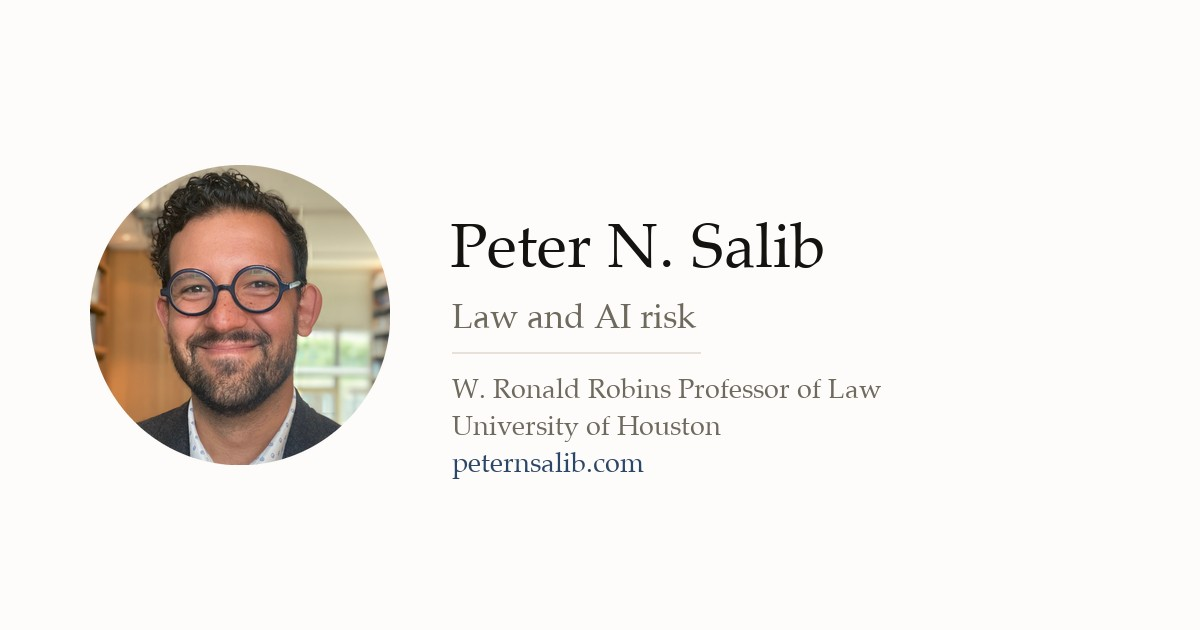
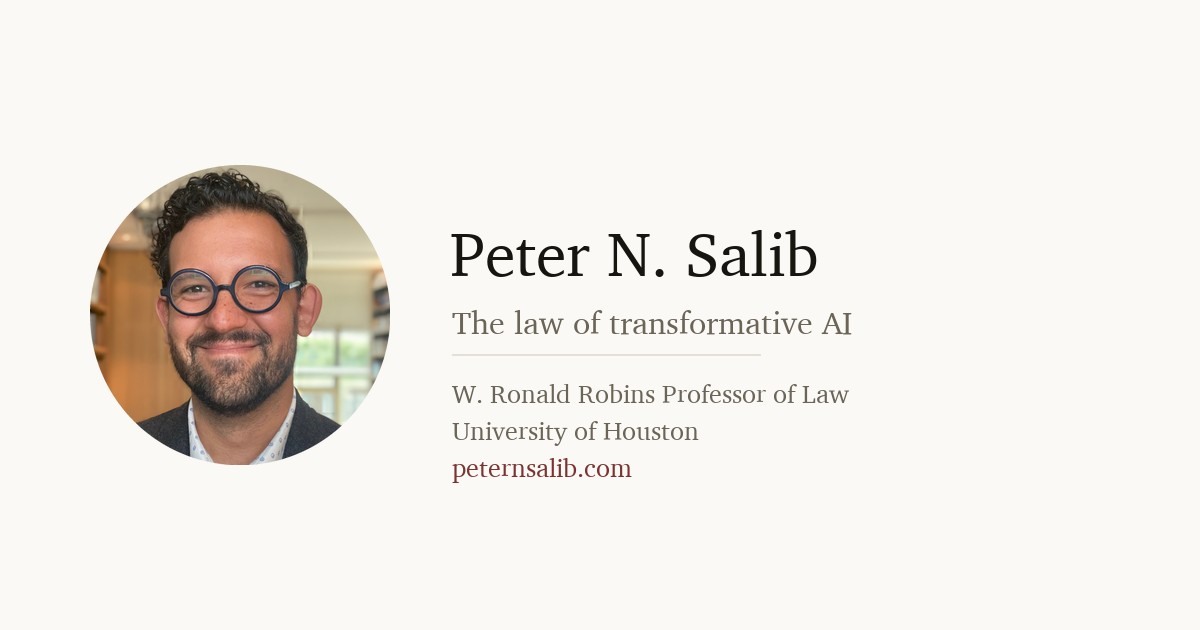
Adopt Charter and oxblood palette
Layout and structure still follow Simon's site, but the typeface and colour are
now our own so the two read as siblings rather than copies. Social card matches.

Changed region(s): [[0.37, 0.3317, 0.7092, 0.4524], [0.37, 0.6032, 0.74, 0.754], [0.37, 0.4825, 0.7092, 0.573]]

diff --git a/assets/style.css b/assets/style.css
@@ -1,15 +1,17 @@
-/* Adapted from Simon Goldstein's site with his permission.
+/* Layout and structure adapted from Simon Goldstein's site with his permission;
+   the palette and typeface are deliberately our own so the two sites read as
+   siblings rather than copies. Charter for text, oxblood for links.
 
    Light only, deliberately. The site should look the same to everyone who opens it
    rather than inverting itself according to a visitor's system setting — otherwise
    you never know what impression a funder actually received. */
 :root{
-  --bg:#fdfcfa;
-  --fg:#141310;
-  --muted:#6f6a5e;
-  --rule:#e6e2d9;
-  --rule-soft:#efece5;
-  --link:#2c4667;
+  --bg:#faf9f5;
+  --fg:#17150f;
+  --muted:#6b6558;
+  --rule:#e4e0d5;
+  --rule-soft:#eeeae0;
+  --link:#7d3232;
   --tag-bg:#efece4;
   --accent:#8a6a3a;
 }
@@ -19,7 +21,7 @@ body{
   margin:0;
   background:var(--bg);
   color:var(--fg);
-  font-family:"Iowan Old Style","Palatino Linotype",Palatino,"Book Antiqua",Georgia,serif;
+  font-family:Charter,"Bitstream Charter","Sitka Text",Cambria,Georgia,serif;
   font-size:18px;
   line-height:1.66;
   -webkit-font-smoothing:antialiased;
@@ -81,7 +83,7 @@ h3.group:first-of-type{margin-top:0}
 .pub .t{font-weight:600;line-height:1.34;display:block;margin-bottom:.2rem;letter-spacing:-.004em}
 .pub .t a{color:var(--fg);border-bottom:1px solid transparent}
 .pub .t a:hover{color:var(--link);border-bottom-color:var(--link)}
-.pub.book{border:1px solid var(--rule);border-radius:3px;background:#faf8f3;
+.pub.book{border:1px solid var(--rule);border-radius:3px;background:#f6f3ea;
   padding:1.15rem 1.4rem 1.3rem;margin:0 -1.4rem 2rem}
 .pub .kind{display:block;font-family:system-ui,-apple-system,"Segoe UI",sans-serif;
   font-size:.655rem;font-weight:400;letter-spacing:.2em;text-transform:uppercase;

diff --git a/public/style.css b/public/style.css
@@ -1,15 +1,17 @@
-/* Adapted from Simon Goldstein's site with his permission.
+/* Layout and structure adapted from Simon Goldstein's site with his permission;
+   the palette and typeface are deliberately our own so the two sites read as
+   siblings rather than copies. Charter for text, oxblood for links.
 
    Light only, deliberately. The site should look the same to everyone who opens it
    rather than inverting itself according to a visitor's system setting — otherwise
    you never know what impression a funder actually received. */
 :root{
-  --bg:#fdfcfa;
-  --fg:#141310;
-  --muted:#6f6a5e;
-  --rule:#e6e2d9;
-  --rule-soft:#efece5;
-  --link:#2c4667;
+  --bg:#faf9f5;
+  --fg:#17150f;
+  --muted:#6b6558;
+  --rule:#e4e0d5;
+  --rule-soft:#eeeae0;
+  --link:#7d3232;
   --tag-bg:#efece4;
   --accent:#8a6a3a;
 }
@@ -19,7 +21,7 @@ body{
   margin:0;
   background:var(--bg);
   color:var(--fg);
-  font-family:"Iowan Old Style","Palatino Linotype",Palatino,"Book Antiqua",Georgia,serif;
+  font-family:Charter,"Bitstream Charter","Sitka Text",Cambria,Georgia,serif;
   font-size:18px;
   line-height:1.66;
   -webkit-font-smoothing:antialiased;
@@ -81,7 +83,7 @@ h3.group:first-of-type{margin-top:0}
 .pub .t{font-weight:600;line-height:1.34;display:block;margin-bottom:.2rem;letter-spacing:-.004em}
 .pub .t a{color:var(--fg);border-bottom:1px solid transparent}
 .pub .t a:hover{color:var(--link);border-bottom-color:var(--link)}
-.pub.book{border:1px solid var(--rule);border-radius:3px;background:#faf8f3;
+.pub.book{border:1px solid var(--rule);border-radius:3px;background:#f6f3ea;
   padding:1.15rem 1.4rem 1.3rem;margin:0 -1.4rem 2rem}
 .pub .kind{display:block;font-family:system-ui,-apple-system,"Segoe UI",sans-serif;
   font-size:.655rem;font-weight:400;letter-spacing:.2em;text-transform:uppercase;
